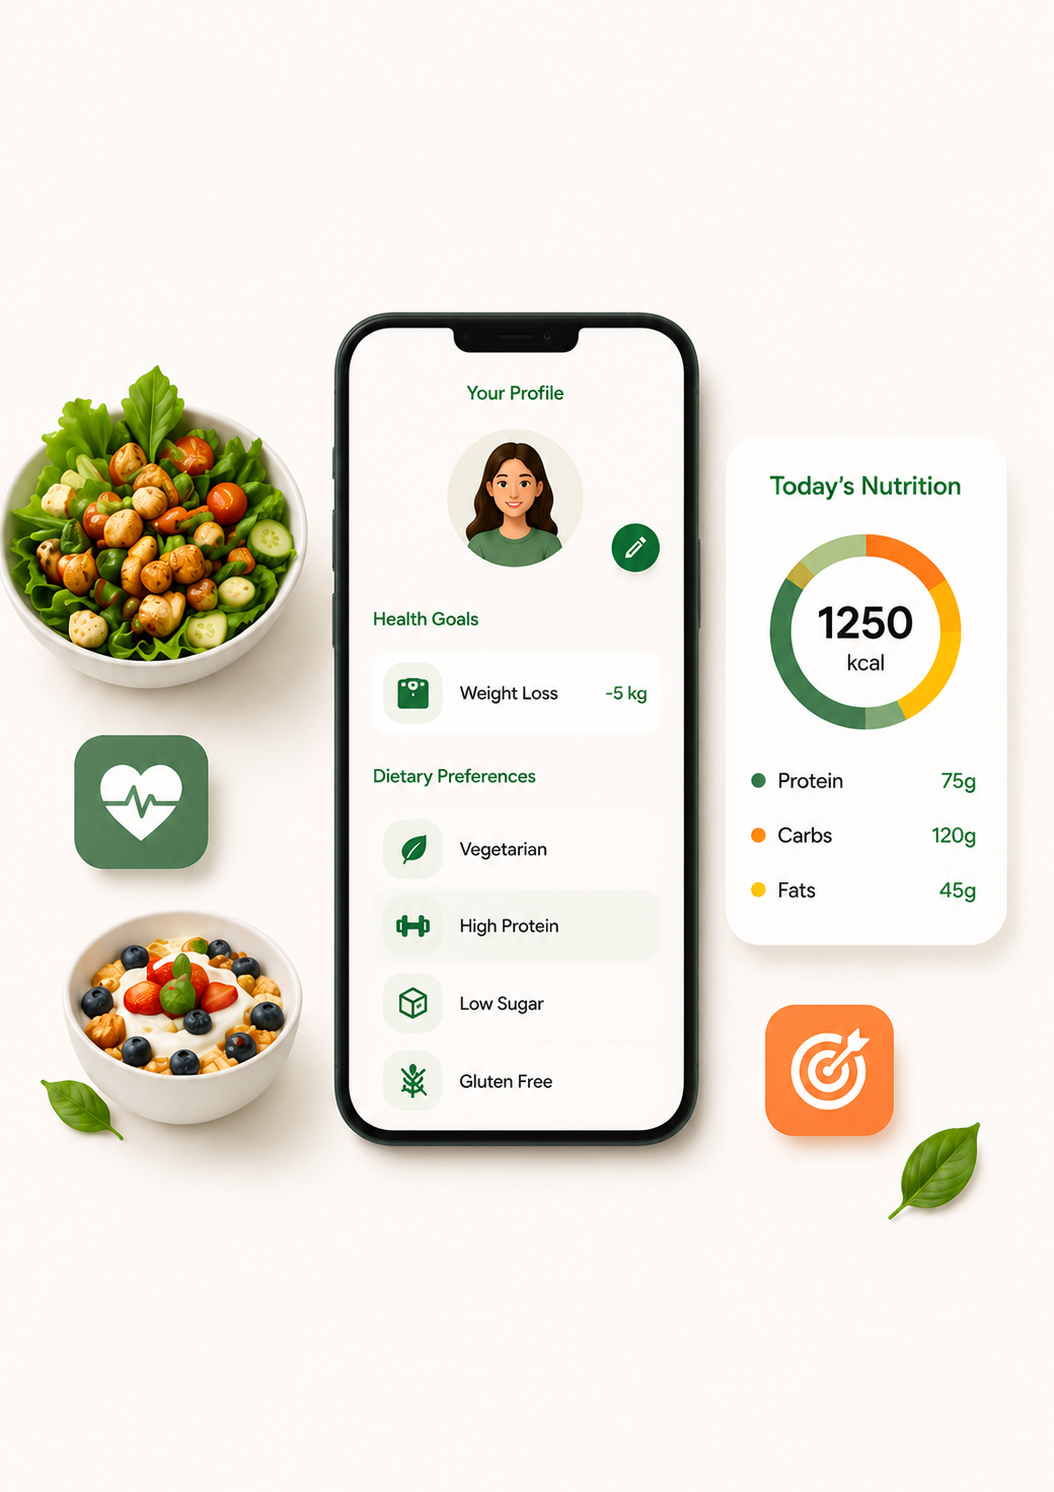
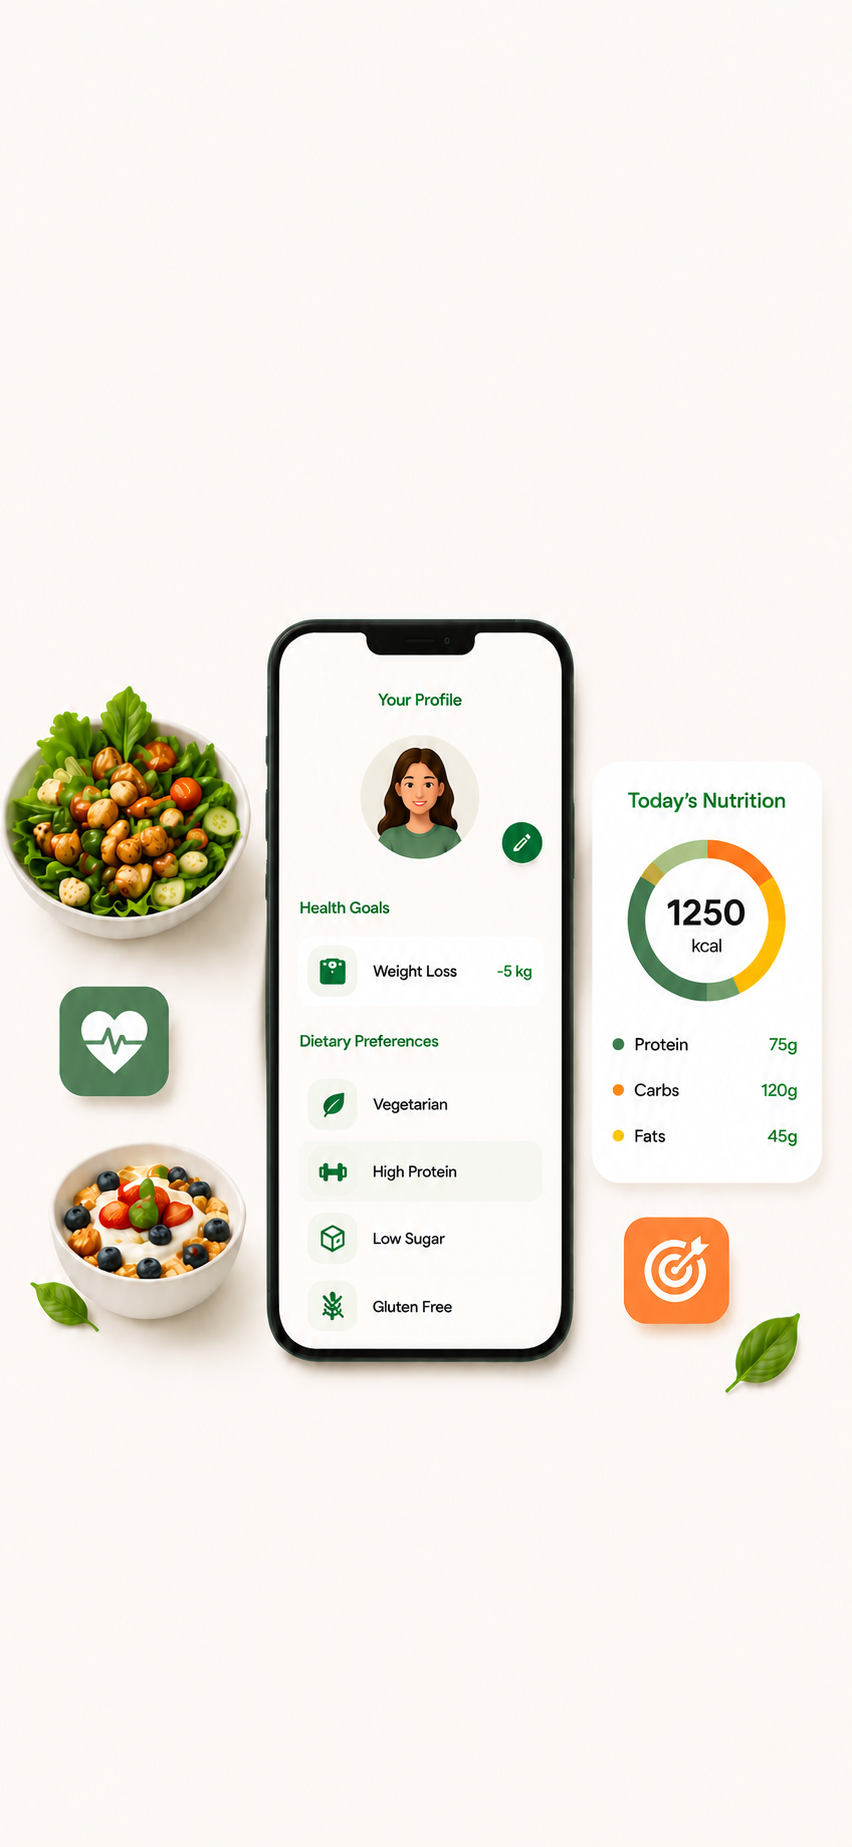
build onboarding 2 Screen

Changed region(s): [[0.0, 0.185, 0.9765, 0.8324]]

diff --git a/src/app/onboarding2.tsx b/src/app/onboarding2.tsx
@@ -1,0 +1,179 @@
+import { View, Text, TouchableOpacity, ImageBackground, StyleSheet } from 'react-native';
+import { router } from 'expo-router';
+import { Ionicons } from '@expo/vector-icons';
+
+export default function Onboarding2() {
+  return (
+    <ImageBackground
+      source={require('../../assets/images/Onboarding2bg.png')}
+      style={styles.container}
+      resizeMode="cover"
+    >
+      <View style={styles.content}>
+        <Text style={styles.badgeText}>2 / 3</Text>
+
+        <Text style={styles.title}>
+          <Text style={styles.green}>Personalized nutrition</Text>
+          {'\n'}for a healthier you
+        </Text>
+
+        <Text style={styles.subtitle}>
+          Tell us your preferences and health goals,{'\n'}
+          and AI Chef will personalize recipes{'\n'}
+          just for you.
+        </Text>
+      </View>
+
+      <View style={styles.features}>
+        <Feature icon="sparkles" title="Personalized" sub="Recipes" />
+        <Feature icon="shield-checkmark-outline" title="Healthier" sub="Choices" />
+        <Feature icon="nutrition-outline" title="Balanced" sub="Nutrition" />
+        <Feature icon="trending-up-outline" title="Track Your" sub="Progress" />
+      </View>
+
+      <View style={styles.bottom}>
+        <TouchableOpacity onPress={() => router.replace('/')}>
+          <Text style={styles.skip}>Skip</Text>
+        </TouchableOpacity>
+
+        <View style={styles.dots}>
+          <View style={styles.dot} />
+          <View style={[styles.dot, styles.activeDot]} />
+          <View style={styles.dot} />
+        </View>
+
+        <TouchableOpacity
+          style={styles.nextButton}
+          onPress={() => router.push('/')}
+        >
+          <Ionicons name="arrow-forward" size={34} color="#fff" />
+        </TouchableOpacity>
+      </View>
+    </ImageBackground>
+  );
+}
+
+function Feature({
+  icon,
+  title,
+  sub,
+}: {
+  icon: any;
+  title: string;
+  sub: string;
+}) {
+  return (
+    <View style={styles.featureBox}>
+      <Ionicons name={icon} size={28} color="#0F7A3A" />
+      <Text style={styles.featureText}>{title}</Text>
+      <Text style={styles.featureText}>{sub}</Text>
+    </View>
+  );
+}
+
+const styles = StyleSheet.create({
+  container: {
+    flex: 1,
+    backgroundColor: '#FFFDF8',
+  },
+
+  content: {
+    paddingTop: 75,
+    paddingHorizontal: 30,
+  },
+
+
+  badgeText: {
+    fontSize: 18,
+    fontWeight: '700',
+    color: '#166534',
+    paddingVertical: 20,
+  },
+
+  title: {
+    fontSize: 36,
+    lineHeight: 45,
+    fontWeight: '800',
+    color: '#050505',
+  },
+
+  green: {
+    color: '#0F7A3A',
+  },
+
+  subtitle: {
+    marginTop: 10,
+    fontSize: 18,
+    lineHeight: 30,
+    color: '#555',
+    fontWeight: '500',
+  },
+
+  features: {
+    position: 'absolute',
+    left: 26,
+    right: 26,
+    bottom: 145,
+    height: 115,
+    backgroundColor: '#EEF5EA',
+    borderRadius: 24,
+    flexDirection: 'row',
+    alignItems: 'center',
+    justifyContent: 'space-around',
+  },
+
+  featureBox: {
+    alignItems: 'center',
+    width: '25%',
+  },
+
+  featureText: {
+    fontSize: 12,
+    fontWeight: '700',
+    color: '#111',
+    textAlign: 'center',
+    marginTop: 3,
+  },
+
+  bottom: {
+    position: 'absolute',
+    left: 30,
+    right: 30,
+    bottom: 45,
+    flexDirection: 'row',
+    alignItems: 'center',
+    justifyContent: 'space-between',
+  },
+
+  skip: {
+    fontSize: 20,
+    color: '#666',
+    fontWeight: '700',
+  },
+
+  dots: {
+    flexDirection: 'row',
+    gap: 14,
+  },
+
+  dot: {
+    width: 13,
+    height: 13,
+    borderRadius: 7,
+    backgroundColor: '#D5E6D5',
+  },
+
+  activeDot: {
+    backgroundColor: '#0A8A43',
+    width: 24,
+  },
+
+  nextButton: {
+    width: 68,
+    height: 68,
+    borderRadius: 34,
+    backgroundColor: '#0F7A3A',
+    alignItems: 'center',
+    justifyContent: 'center',
+  },
+});

diff --git a/src/app/onboarding1.tsx b/src/app/onboarding1.tsx
@@ -52,14 +52,14 @@ export default function OnboardingScreen() {
           </TouchableOpacity>
 
           <View style={styles.dots}>
-            <View style={[styles.dot, styles.activeDot]} />
-            <View style={styles.dot} />
-            <View style={styles.dot} />
+            <TouchableOpacity  onPress={() => router.replace('/onboarding1')} style={[styles.dot, styles.activeDot]} />
+            <TouchableOpacity style={styles.dot} />
+            <TouchableOpacity style={styles.dot} />
           </View>
 
           <TouchableOpacity
             style={styles.nextButton}
-            onPress={() => router.replace('/')}
+            onPress={() => router.replace('/onboarding2')}
           >
             <Text style={styles.arrow}><Ionicons name="arrow-forward" size={28} color="#FFFFFF" /></Text>
           </TouchableOpacity>